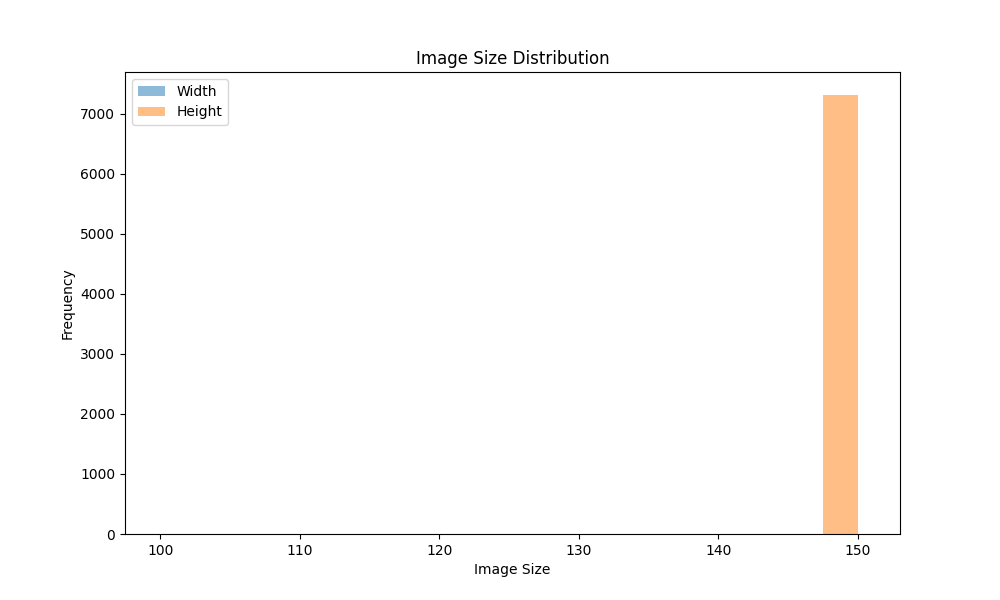
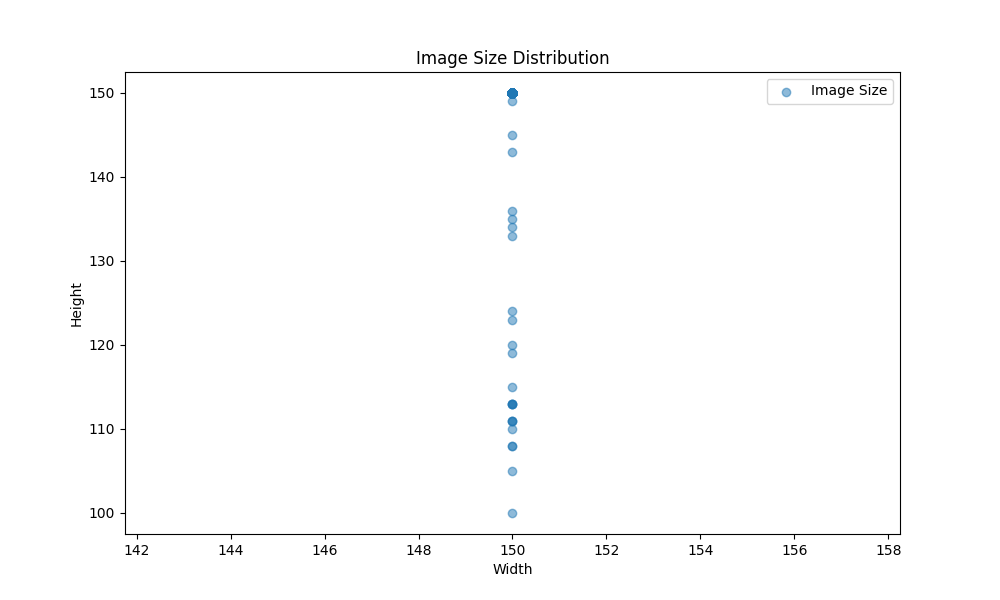
Better reflection of image sizes

diff --git a/Assignment1/src/eda.py b/Assignment1/src/eda.py
@@ -55,10 +55,9 @@ def eda(data_dir, name):
 
     widths, heights = zip(*image_sizes)
     plt.figure(figsize=(10, 6))
-    plt.hist(widths, bins=20, alpha=0.5, label='Width')
-    plt.hist(heights, bins=20, alpha=0.5, label='Height')
-    plt.xlabel('Image Size')
-    plt.ylabel('Frequency')
+    plt.scatter(widths, heights, label='Image Size', alpha=0.5)
+    plt.xlabel('Width')
+    plt.ylabel('Height')
     plt.title('Image Size Distribution')
     plt.legend()
     plt.savefig(name + "_image_size_distribution.png")
